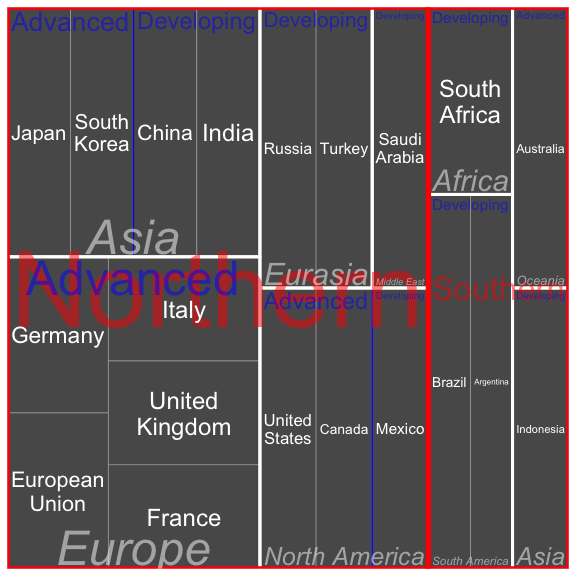
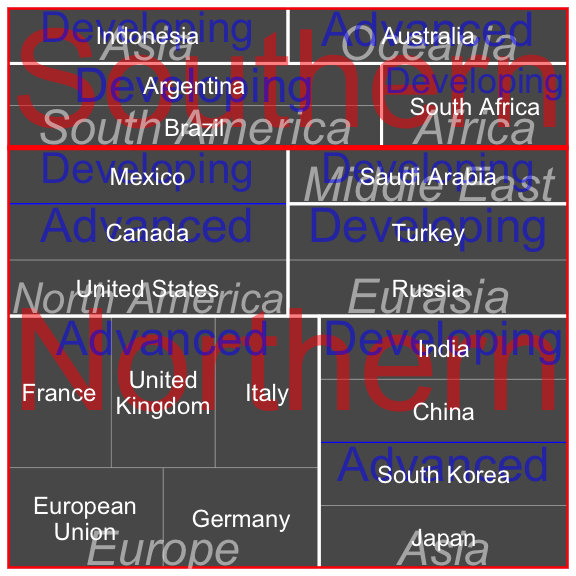
Squarified algorithm now proceeds row-first

diff --git a/README.md b/README.md
@@ -105,6 +105,11 @@ ggplot(G20, aes(area = gdp_mil_usd, fill = hdi, label = country)) +
 
 ![](man/figures/README-geom_treemap_text-1.png)<!-- -->
 
+Note that the top-rightmost tile, ‘South Africa’, is not labelled.
+`geom_treemap_text` will hide text labels that cannot fit a tile without
+being shrunk below a minimum size, by default 4 points. This can be
+adjusted with the `min.size` argument.
+
 ## Subgrouping tiles
 
 `geom_treemap` supports subgrouping of tiles within a treemap by passing
@@ -125,11 +130,6 @@ ggplot(G20, aes(area = gdp_mil_usd, fill = hdi, label = country,
 ```
 
 ![](man/figures/README-subgrouped_treemap-1.png)<!-- -->
-
-Note that ‘Argentina’ and ‘South Africa’ have been hidden.
-`geom_treemap_text` will hide text labels that cannot fit a tile without
-being shrunk below a minimum size, by default 4 points. This can be
-adjusted with the `min.size` argument.
 
 Up to three nested levels of subgrouping are supported with the
 `subgroup2` and `subgroup3` aesthetics. Borders and text labels for
@@ -155,6 +155,9 @@ ggplot(G20, aes(area = 1, label = country, subgroup = hemisphere,
 ```
 
 ![](man/figures/README-multiple_subgrouped_treemap-1.png)<!-- -->
+
+As demonstrated, there is no assurance that the resulting plot will look
+good.
 
 Like any ‘ggplot2’ plot, ‘treemapify’ plots can be faceted, scaled,
 themed,
